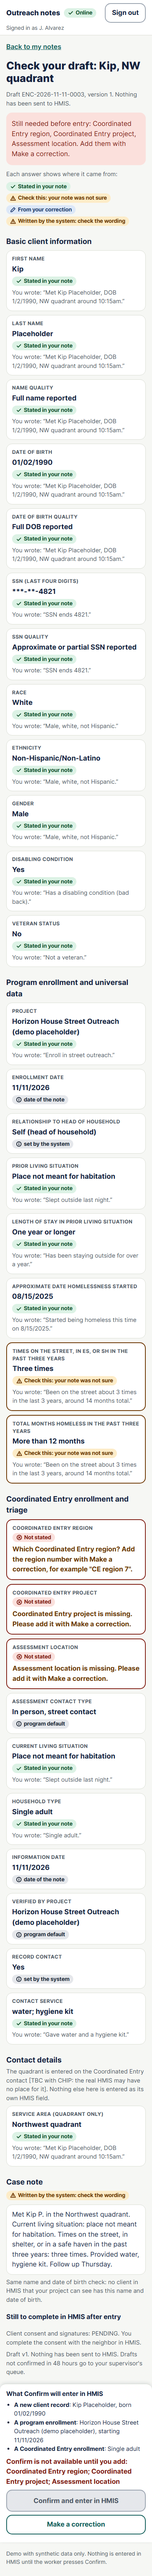
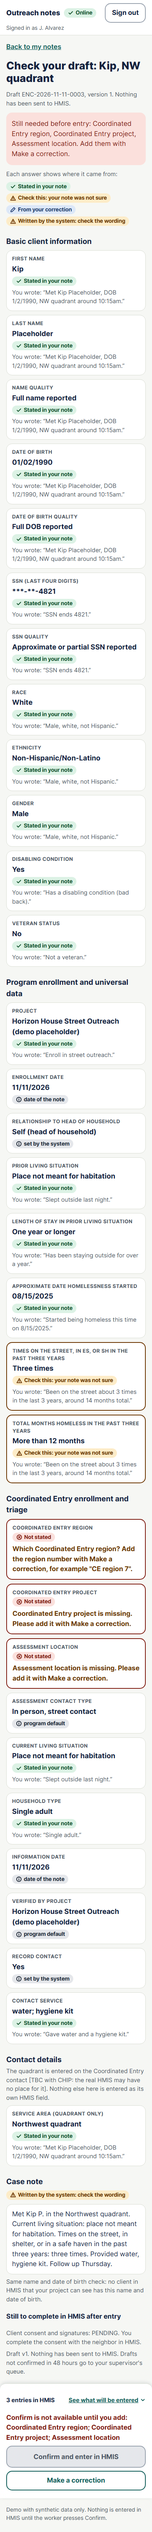
Make the review screen's Confirm bar compact by default
One line ("3 entries in HMIS"), the Confirm button, and Make a correction. "See what will be
entered" opens the full summary (a native details element, so it works by keyboard without
script). Why Confirm is blocked stays visible outside it. The chip on the last four SSN digits
is marked [TBC with Goodwill and CHIP]. Screenshots showing the bar are refreshed.

diff --git a/ui/web/screens.js b/ui/web/screens.js
@@ -25,6 +25,7 @@ const ICONS = {
   info: '<circle cx="8" cy="8" r="6.2"/><path d="M8 7.5v3.5M8 5v.01"/>',
   upload: '<path d="M8 11V3M4.5 6.5 8 3l3.5 3.5M3 13.5h10"/>',
   device: '<rect x="4.5" y="1.5" width="7" height="13" rx="1.5"/><path d="M7.5 12.5h1"/>',
+  chevron: '<path d="M4 6l4 4 4-4"/>',
   wifiOff: '<path d="M1.5 1.5l13 13M3 7a8 8 0 0 1 3-1.8M13 7a8 8 0 0 0-4.5-2.2M5.2 9.5a4.5 4.5 0 0 1 2.3-1.1M8 12.5v.01"/>',
 };
 
@@ -203,9 +204,14 @@ function confirmBlock(view, { blockedReason, bar = false, after = "" } = {}) {
   const summary = (view.entry_summary || []).map((s) => `<li><strong>${esc(s.what)}</strong>${s.detail ? `: ${esc(s.detail)}` : ""}</li>`).join("");
   const allowed = Boolean(view.confirm_allowed);
   const reason = allowed ? "" : (blockedReason || (view.review && view.review.confirm_blocked_reason) || "This draft cannot be entered yet.");
+  const entries = (view.entry_summary || []).length;
+  // In the bottom bar: one line, with the full summary a tap away. Elsewhere: the summary in full.
+  const heading = '<h2 id="confirm-heading">What Confirm will enter in HMIS</h2>';
+  const list = `<ul class="summary">${summary}</ul>`;
+  const what = bar ? `<details class="bar-summary"><summary><span>${esc(plural(entries, "entry").replace("entrys", "entries"))} in HMIS</span>`
+    + `<span class="bar-toggle">See what will be entered${icon("chevron")}</span></summary>${heading}${list}</details>` : `${heading}${list}`;
   return `<section class="confirm${bar ? " bar" : ""}" aria-labelledby="confirm-heading">
-    <h2 id="confirm-heading">What Confirm will enter in HMIS</h2>
-    <ul class="summary">${summary}</ul>
+    ${what}
     ${allowed ? "" : `<p class="blocked" id="confirm-blocked">${esc(reason)}</p>`}
     <button type="button" class="btn primary" data-action="confirm" data-ref="${esc(view.id)}" data-version="${esc(view.version)}"
       ${allowed ? "" : 'disabled aria-describedby="confirm-blocked"'}>Confirm and enter in HMIS</button>
@@ -280,6 +286,7 @@ export function verification(view, { error = null, reason = "" } = {}) {
     ${v.duplicates_notice ? `<div class="banner warn"><p>${esc(v.duplicates_notice)}</p></div>` : ""}
     ${hardStop ? `<div class="banner warn"><p>${esc(hardStop.grade_text)}</p></div>` : ""}
     <ul class="cards">${cards}</ul>
+    <p class="small">The line about the last four SSN digits helps you decide. The digits are never shown [TBC with Goodwill and CHIP: whether to show this].</p>
     ${confirmBlock(view, { blockedReason: "Confirm is not available until you choose Same person or Different person above." })}
     <section class="bar" aria-labelledby="different-heading">
       <h2 id="different-heading">Not the same person?</h2>

diff --git a/ui/web/style.css b/ui/web/style.css
@@ -167,6 +167,10 @@ summary { display: flex; align-items: center; min-height: 48px; font-weight: 700
   background: var(--card); border: 0; border-top: 1px solid var(--border); border-radius: var(--radius) var(--radius) 0 0; box-shadow: var(--shadow);
 }
 .bar h2 { font-size: 16px; margin: 2px 0 4px; }
+.bar-summary > summary { justify-content: space-between; gap: 10px; font-size: 15px; list-style: none; }
+.bar-summary > summary::-webkit-details-marker { display: none; }
+.bar-toggle { display: inline-flex; align-items: center; gap: 4px; color: var(--primary); text-decoration: underline; }
+.bar-summary[open] .bar-toggle .icon { transform: rotate(180deg); }
 .bar .btn { margin: 8px 0; }
 .bar label { margin-top: 2px; }
 .bar textarea { min-height: 72px; }

diff --git a/tests/test_web_style.py b/tests/test_web_style.py
@@ -213,3 +213,26 @@ def test_role_screens_are_tables_that_stack_on_a_phone(role_screens, screen):  #
     page = role_screens[screen]
     assert '<table class="stack-table"' in page and "<th scope=\"col\"" in page and 'data-label="' in page
     assert re.search(r"@media \(max-width: 719px\)[^@]*\.stack-table", CSS)
+
+
+# The review screen's bottom bar is compact until asked
+
+
+def test_the_review_bar_is_compact_by_default(every_screen):  # noqa: F811
+    page = every_screen["review"]
+    bar = page[page.index('<section class="confirm bar"'):]
+    details = bar[bar.index("<details"):bar.index("</details>")]
+    assert "<details" in bar and "<details open" not in bar
+    assert "See what will be entered" in details and "3 entries in HMIS" in details
+    assert "A new client record" in details  # the full summary is inside, for whoever opens it
+    assert bar.index("</details>") < bar.index('data-action="confirm"')  # Confirm is always visible
+
+
+def test_why_confirm_is_blocked_stays_visible_in_the_compact_bar(every_screen):  # noqa: F811
+    page = every_screen["review_missing"]
+    bar = page[page.index('<section class="confirm bar"'):]
+    assert bar.index("</details>") < bar.index('id="confirm-blocked"')
+
+
+def test_the_digits_chip_is_marked_tbc(every_screen):  # noqa: F811
+    assert "[TBC with Goodwill and CHIP" in text_of(every_screen["verification"])

diff --git a/openspec/changes/add-web-application/design.md b/openspec/changes/add-web-application/design.md
@@ -118,7 +118,8 @@ The core never writes wording. Each message to a worker or supervisor is a neutr
 - **Statuses.** Every status is a chip with a word and a small inline SVG icon: green for done, amber for check, red for not entered or past the limit, blue for in progress or corrected, grey for on the device or offline.
 - **Inter, served with the app.** The font is in `ui/web/fonts/` under its SIL Open Font License, not loaded from a font service, so it works offline and the app makes no requests to another site.
 - **Layouts.** Check your draft is one card per answer. The Confirm summary and buttons, and the different-person reason on the same-name check, sit in a bar that stays at the bottom of the screen while the page scrolls (`position: sticky`, so it never covers the end of the page). Workers have bottom navigation on their top-level screens. Supervisor and staff lists are real tables that stack into cards on a phone.
-- **Same-name cards.** Each shows the client ID, first name and last initial, last contact, quadrant, and open items, plus one chip saying whether the last four SSN digits match, differ, or are missing, because the recommendation and the 40-character rule depend on it. The digits are never shown.
+- **Same-name cards.** Each shows the client ID, first name and last initial, last contact, quadrant, and open items, plus one chip saying whether the last four SSN digits match, differ, or are missing, because the recommendation and the 40-character rule depend on it. The digits are never shown. Whether to show that chip at all is [TBC with Goodwill and CHIP].
+- **Compact Confirm bar.** On the review screen the bar is one line ("3 entries in HMIS"), the Confirm button, and Make a correction; "See what will be entered" opens the full summary (a native `<details>`, so it works by keyboard without script).
 
 ## 8. Stages
 1. Planning (this change) and archiving the three merged Week 10 changes.
@@ -159,3 +160,4 @@ The core never writes wording. Each message to a worker or supervisor is a neutr
 6. Sign-in lockout counts are in memory, so several app processes would each count separately. Ask: Goodwill IT.
 7. Who needs the parser-run and staged-record views outside the demo (they show draft contents; demo-only for now). Ask: Goodwill.
 8. What supervisors may see of a draft, how their teams are defined, and whether their views should be audited. Ask: Goodwill.
+9. Whether the same-name screen may show that the last four SSN digits match, differ, or are missing (never the digits). Ask: Goodwill and CHIP.

diff --git a/openspec/changes/add-web-application/specs/web-application/spec.md b/openspec/changes/add-web-application/specs/web-application/spec.md
@@ -82,7 +82,7 @@ The system SHALL offer a signed-in worker screens to write a new-client note, wr
 
 #### Scenario: Confirm shows what will be entered
 - **WHEN** a worker looks at a draft they can confirm
-- **THEN** a short summary of each entry Confirm will make in HMIS is shown right above the Confirm button
+- **THEN** right above the Confirm button one line says how many entries it will make in HMIS, and a "See what will be entered" control opens a short summary of each
 
 #### Scenario: Confirm while a verification is open
 - **WHEN** a same-name verification is open on the draft
